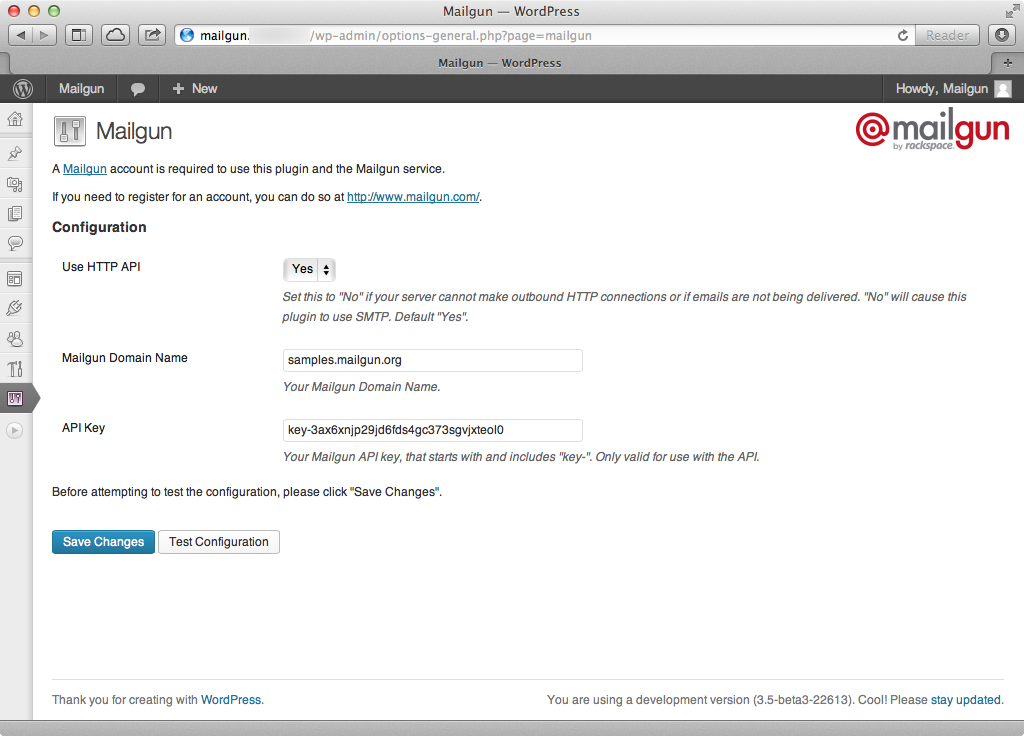
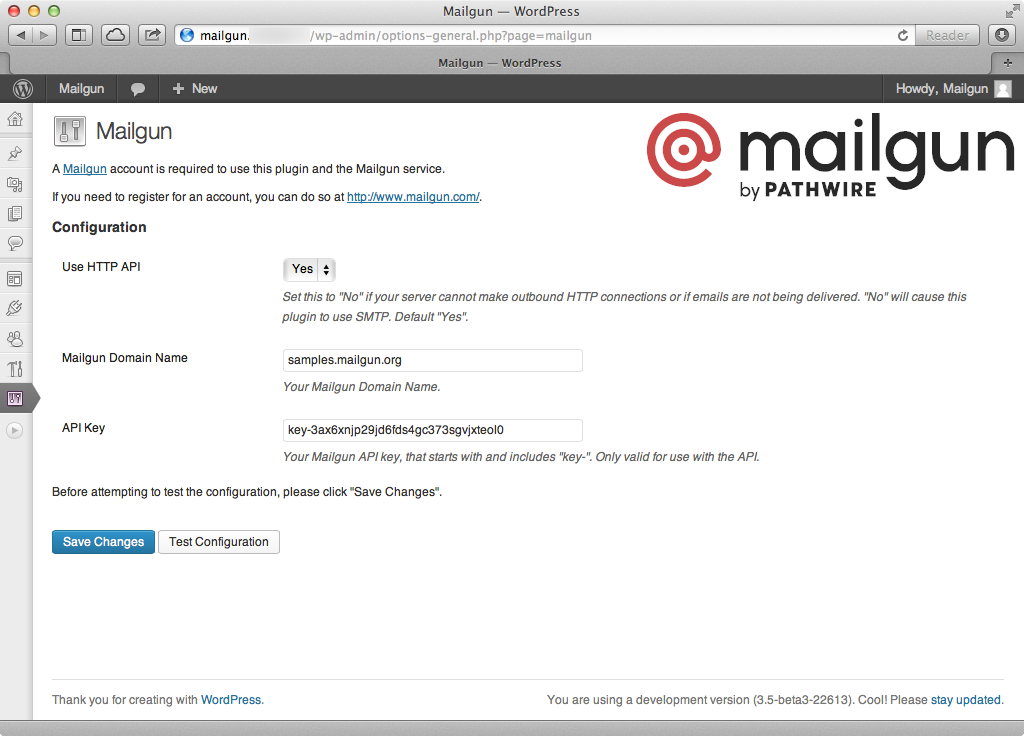
test for fresh wp 5.7, update assets, latest updates

Changed region(s): [[0.625, 0.1562, 1.0, 0.2812]]

diff --git a/mailgun.php b/mailgun.php
@@ -4,7 +4,7 @@
  * Plugin Name:  Mailgun
  * Plugin URI:   http://wordpress.org/extend/plugins/mailgun/
  * Description:  Mailgun integration for WordPress
- * Version:      1.7.6
+ * Version:      1.7.7
  * Author:       Mailgun
  * Author URI:   http://www.mailgun.com/
  * License:      GPLv2 or later

diff --git a/CHANGELOG.md b/CHANGELOG.md
@@ -1,6 +1,9 @@
 Changelog
 =========
 
+1.7.7 (2021-03-16)
+- Updated assets, tested WP 5.7
+
 1.7.6 (2021-02-19)
 - Sync versions across plugin files
 
